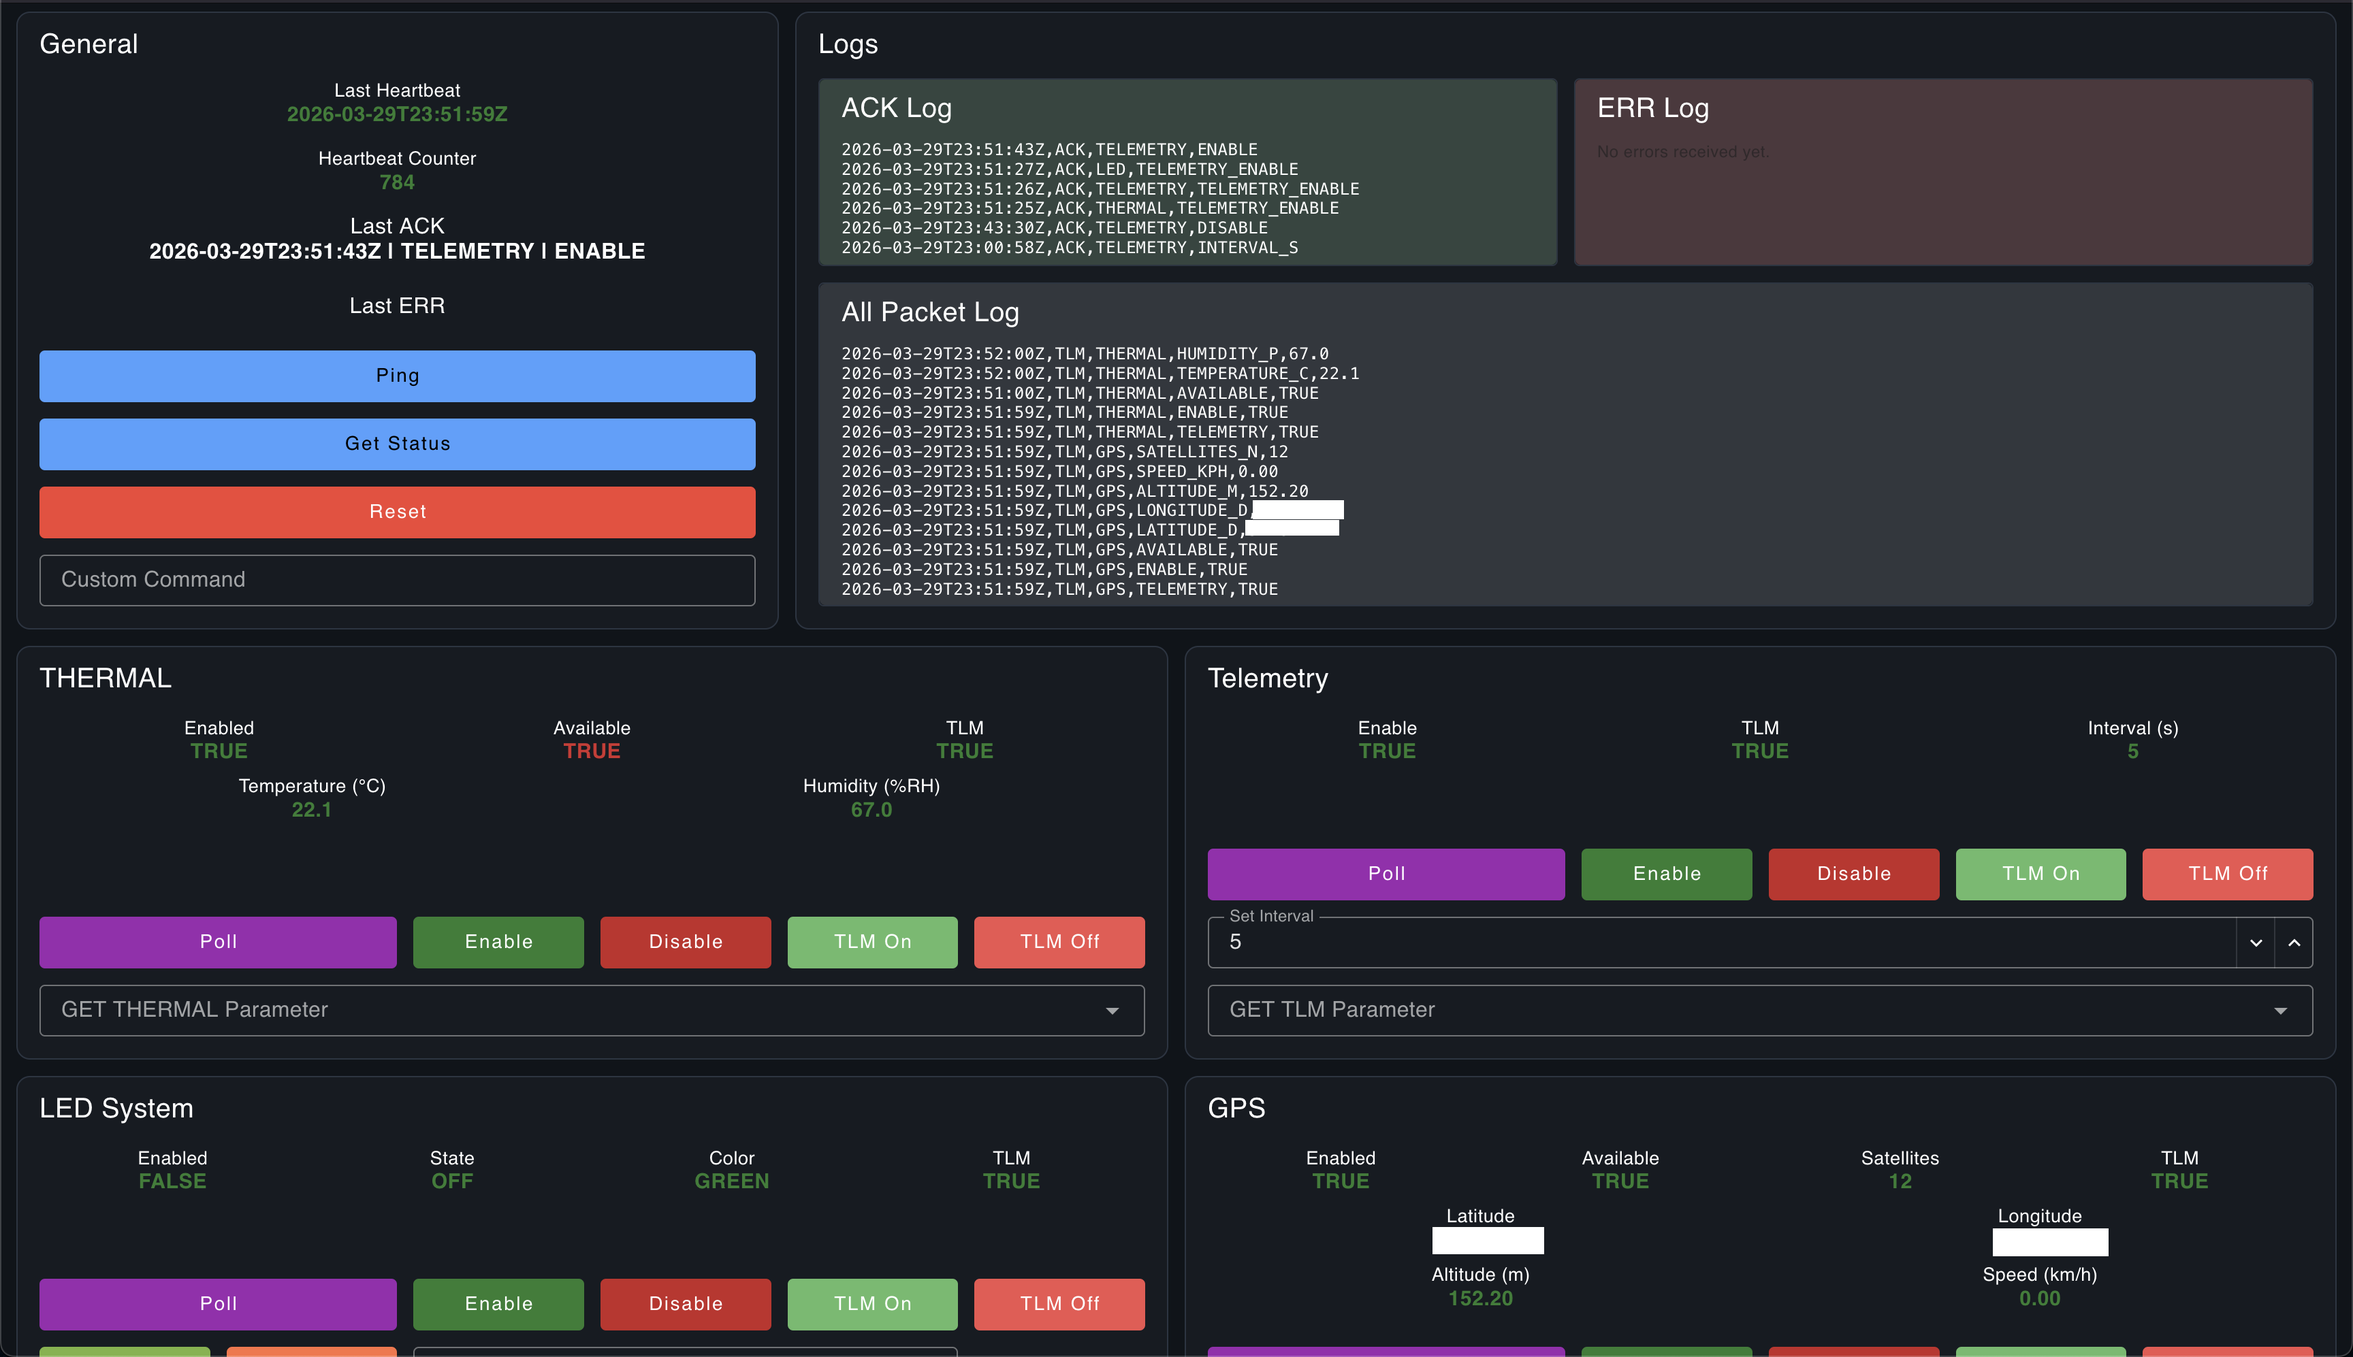
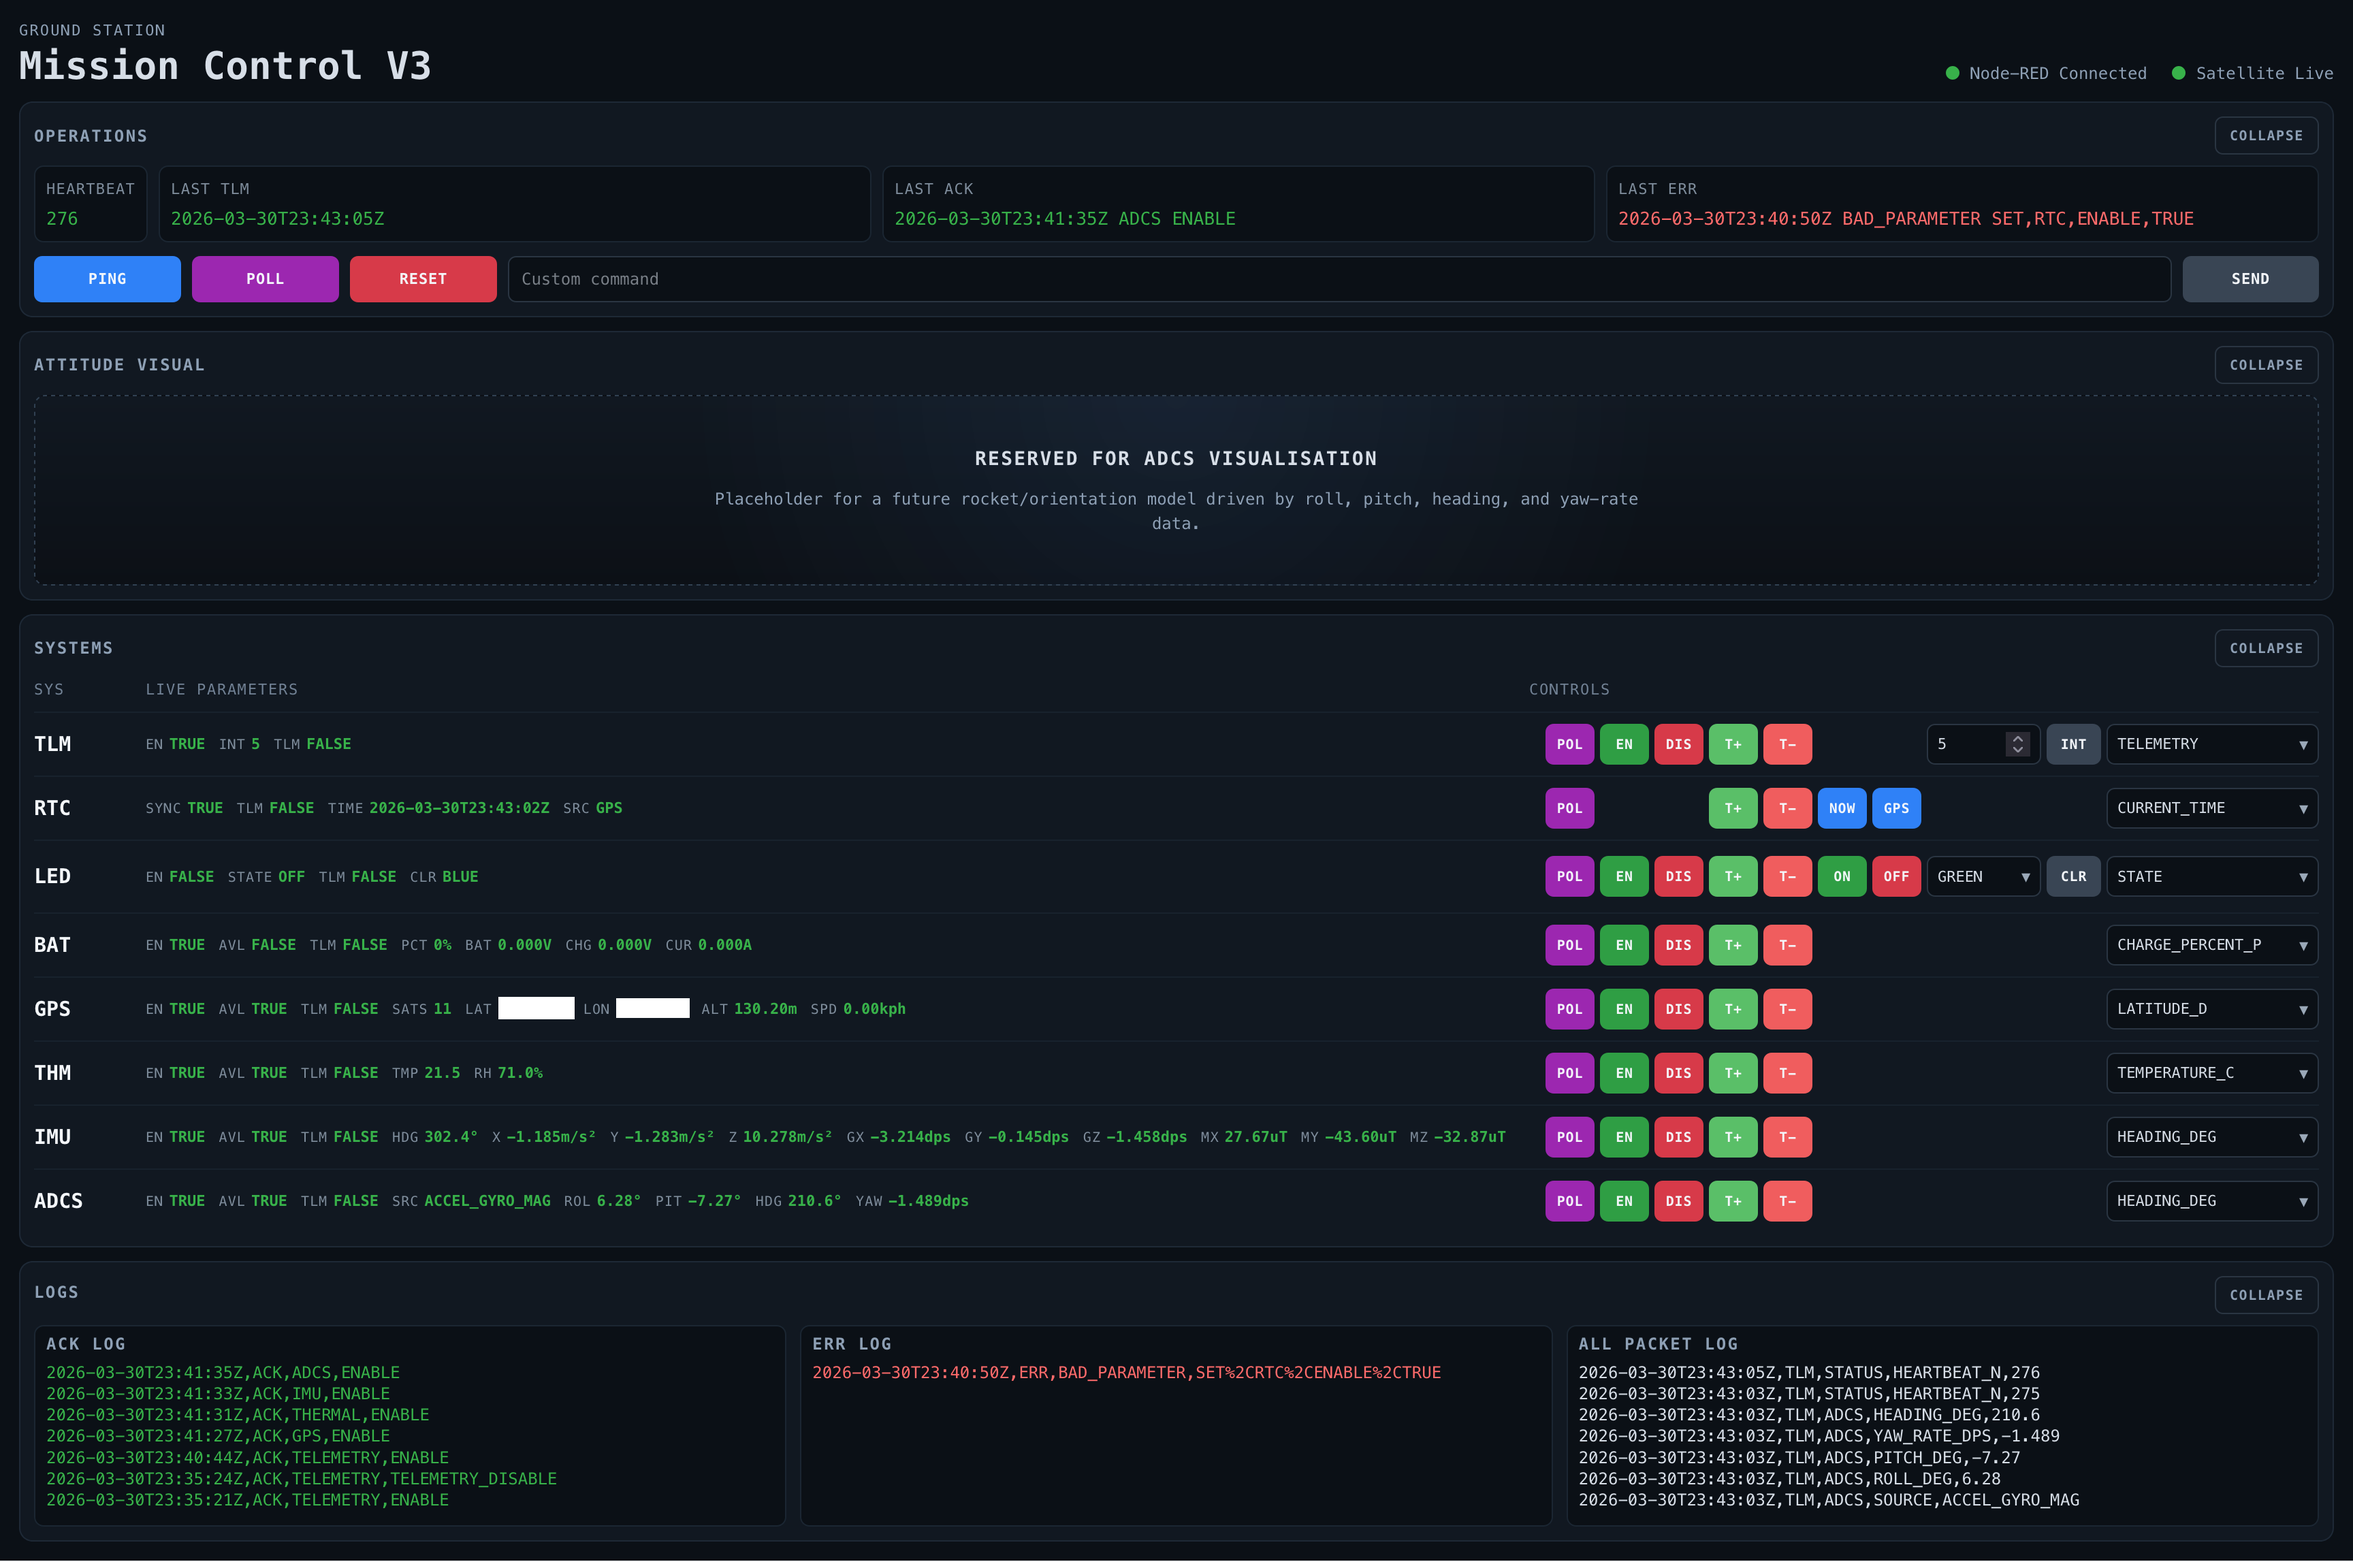
documentation update and screen shot update

diff --git a/ground-station-dashboard/README.md b/ground-station-dashboard/README.md
@@ -90,13 +90,39 @@ Dashboard v3 is served by `uibuilder` at:
 http://localhost:1880/dashboard-v3/
 ```
 
-The v3 client currently implements:
+The v3 client is a bespoke mission-control style console rather than a widget grid.
 
-- mission-control style operations panel
-- `ACK`, `ERR`, and all-packet logs
-- one-row-per-system status table
-- compact per-system controls that send the same command protocol as the current dashboard
-- freshness-aware parameter coloring
+Its current structure is:
+
+- `Operations`: heartbeat, last telemetry timestamp, last acknowledgement, last error, plus top-level `PING`, full-system `POLL`, `RESET`, and custom command send
+- `Attitude Visual`: reserved placeholder panel for future ADCS-driven visualisation
+- `Systems`: one compact row per target with live parameters on the left and controls on the right
+- `Logs`: side-by-side `ACK`, `ERR`, and all-packet logs
+
+The v3 interaction model is:
+
+- all panels are collapsible
+- system rows keep a consistent control grid so button columns align vertically across targets
+- shared live parameters are ordered first where applicable:
+  - `EN`
+  - status-like fields such as `STATE`, `AVL`, or `SYNC`
+  - `TLM`
+  - target-specific fields afterwards
+- live values are rendered as compact instrument-style readouts, with units appended in the value text where the parameter implies one
+- freshness colouring is used for live telemetry-derived values and the operations summary
+
+Current v3 control conventions:
+
+- `POL` on a system row sends `GET,<TARGET>,NONE,NONE`
+- top-level `POLL` sends `GET,NONE,NONE,NONE`
+- `EN` / `DIS` are shown only for targets that support firmware enable control
+- `RTC` intentionally does not expose `EN` / `DIS` because the RTC underpins message timestamps for the protocol
+
+Implementation notes:
+
+- incoming payload updates patch live system values in place instead of rebuilding the systems table
+- the one-second UI timer only refreshes freshness/status styling
+- this avoids open dropdowns being closed by routine UI updates while telemetry is streaming
 
 ## Notes
 

diff --git a/README.md b/README.md
@@ -28,7 +28,7 @@ MySat currently consists of three cooperating parts:
    Firmware for an Arduino Mega 2560 acting as a hardware ground-station target.
 
 3. **Ground-station dashboard**  
-   A Node-RED dashboard used to parse, display, and interact with telemetry and commands.
+   A Node-RED-based ground-station UI used to parse, display, and interact with telemetry and commands. The current bespoke dashboard frontend is built with `uibuilder`.
 
 The system currently uses a structured serial protocol first, with the intention that the same logical message model could later be carried over RF.
 
@@ -60,7 +60,8 @@ That makes it both a practical personal engineering project and a reusable platf
 This project uses:
 
 - **PlatformIO** for the firmware projects
-- **Node-RED** for the dashboard / ground-station UI
+- **Node-RED** for the dashboard / ground-station UI backend
+- **Node-RED uibuilder** for the current bespoke dashboard frontend
 - structured Markdown documentation for shared protocol and telemetry definitions
 
 ## Development approach
@@ -90,7 +91,7 @@ Project direction, design decisions, hardware work, and final review remain huma
 ## Current direction
 
 - Firmware remains the system of record for protocol behaviour.
-- The dashboard is a source-controlled Node-RED project under `ground-station-dashboard/`.
+- The dashboard is a source-controlled Node-RED project under `ground-station-dashboard/`, with the current v3 UI implemented using `uibuilder`.
 - The ground-station firmware is maintained as a separate PlatformIO project.
 - Shared wire-format rules live in `documentation/`, not duplicated across multiple READMEs.
 - Target-specific commands and telemetry fields are documented separately under `documentation/targets/`.
